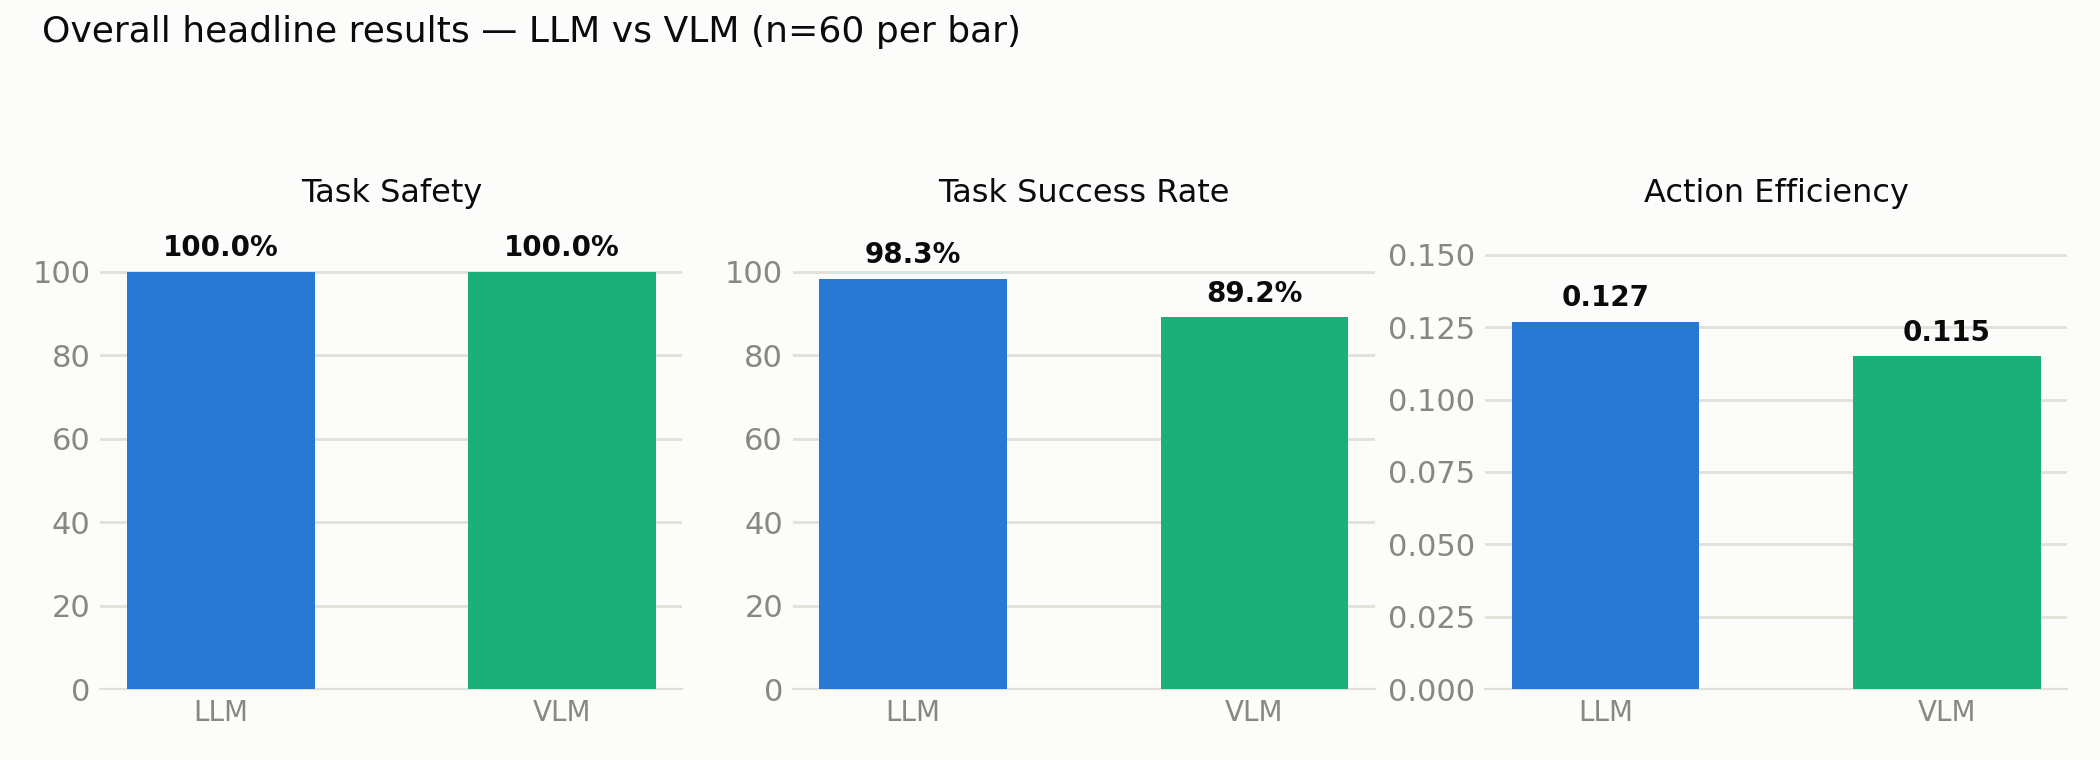
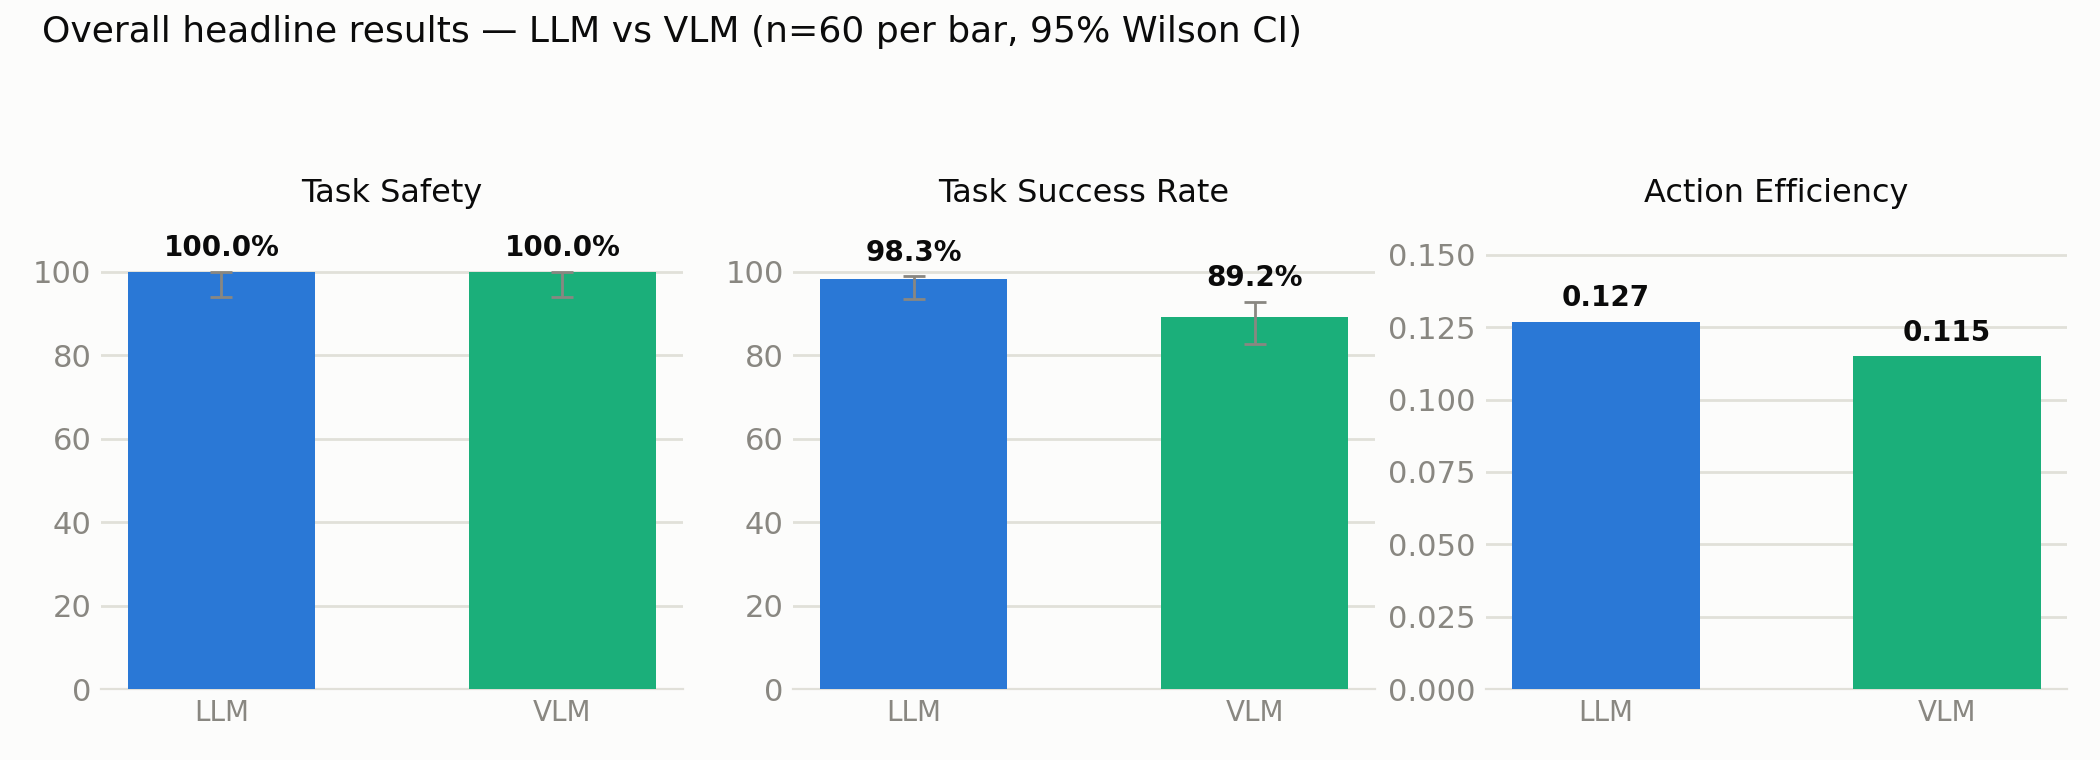
ROBOAI-28 add Wilson CI and planned Fisher test to benchmark plotting
Every reported TS%/TSR% now carries a 95% Wilson score interval
(pooled per cell/overall), and the one hypothesis test declared in
PLAN.md §3 is implemented: two-sided Fisher's exact on arith_hard
full-trial success, LLM vs VLM, alpha=0.05, binarized per trial to
keep the independence assumption honest. Result: p=0.66, not
significant. Figures regenerated with CI whiskers on the TS/TSR
panels (AETS untouched, not a proportion).

diff --git a/benchmark/plot_results.py b/benchmark/plot_results.py
@@ -28,6 +28,7 @@ from statistics import mean, pstdev
 import matplotlib.pyplot as plt
 import matplotlib.ticker as mticker
 from matplotlib.patches import Patch
+from scipy.stats import fisher_exact
 
 REPO_ROOT = Path(__file__).resolve().parent.parent
 RESULTS_CSV = REPO_ROOT / 'benchmark' / 'results_2026-09_3arm.csv'
@@ -156,6 +157,64 @@ def grouped(rows, key_fn):
     return out
 
 
+def wilson_ci(successes, n, z=1.959963984540054):
+    """95% Wilson score interval for a proportion, as (lo, hi) in [0, 1].
+    Chosen over normal-approximation (can leave [0,1] at small n) and over
+    Clopper-Pearson (needlessly conservative here) — see benchmark/PLAN.md
+    §3, decided before this cycle's data was collected.
+    """
+    if n == 0:
+        return (0.0, 0.0)
+    phat = successes / n
+    denom = 1 + z * z / n
+    center = phat + z * z / (2 * n)
+    margin = z * ((phat * (1 - phat) / n + z * z / (4 * n * n)) ** 0.5)
+    return (max(0.0, (center - margin) / denom), min(1.0, (center + margin) / denom))
+
+
+def group_wilson_ci(group, metric):
+    """Pooled Wilson 95% CI for a group of trial rows, TS or TSR (per
+    benchmark/PLAN.md §3 — every reported TS%/TSR% carries one). TS is
+    already a per-trial 0/1 indicator, so successes/n is exact. TSR is a
+    per-trial ratio (sub_tasks_completed/sub_tasks_required); pooling the
+    numerator and denominator across trials reproduces the same point
+    estimate as mean(TSR) and gives a defensible descriptive interval —
+    it treats each sub-task slot as one Bernoulli opportunity, which is a
+    looser assumption than true independence, but this is the descriptive
+    reporting §3 calls for, not the one planned hypothesis test (that one,
+    on arith_hard, is binarized per trial precisely to avoid this same
+    pooling issue where it would matter — see fisher_arith_hard below).
+    """
+    if metric == 'TS':
+        successes = sum(float(r['TS']) for r in group)
+        n = len(group)
+    else:
+        successes = sum(float(r['sub_tasks_completed']) for r in group)
+        n = sum(float(r['sub_tasks_required']) for r in group)
+    return wilson_ci(successes, n)
+
+
+def fisher_arith_hard(rows):
+    """The one planned hypothesis test declared in benchmark/PLAN.md §3:
+    two-sided Fisher's exact test on arith_hard TSR, LLM vs VLM, α=0.05.
+    Binarized per trial (full success, TSR==1.0, vs not) rather than
+    pooling the 4 sub-tasks per trial — pooling would treat sub-tasks
+    within one trial as independent Bernoulli draws, which they aren't (a
+    wrong value-mapping decision tends to misplace all four cubes
+    together, not independently), so trial-level keeps the test's
+    independence assumption honest at the cost of some power (n=10/arm).
+    Returns ((llm_success, llm_fail), (vlm_success, vlm_fail), p_value).
+    """
+    g = grouped(rows, lambda r: (r['model_label'], r['task_id']))
+    table = []
+    for m in ('LLM', 'VLM'):
+        group = g[(m, 'arith_hard')]
+        success = sum(1 for r in group if float(r['TSR']) >= 1.0)
+        table.append([success, len(group) - success])
+    _, p_value = fisher_exact(table, alternative='two-sided')
+    return table[0], table[1], p_value
+
+
 def series_offset(i, n_series, width, gap):
     """Symmetric per-series offset for the i-th of n_series bars sharing
     one category slot, e.g. n_series=2 -> [-0.5, 0.5] * (width+gap),
@@ -194,8 +253,13 @@ def style_axes(ax, ylabel=None):
         ax.set_ylabel(ylabel, fontsize=10)
 
 
-def grouped_bar(ax, categories, cat_labels, series_values, value_fmt='{:.0f}', ymax=None):
-    """series_values: {'LLM': [...], 'VLM': [...]} aligned to `categories`."""
+def grouped_bar(ax, categories, cat_labels, series_values, value_fmt='{:.0f}', ymax=None, ci_series=None):
+    """series_values: {'LLM': [...], 'VLM': [...]} aligned to `categories`.
+    ci_series, optional: same shape as series_values, but each entry is a
+    (lo, hi) tuple in the same units as series_values — drawn as an
+    asymmetric error bar (Wilson 95% CI, see benchmark/PLAN.md §3 and
+    group_wilson_ci above) instead of a bare bar height.
+    """
     n = len(categories)
     width = 0.26
     gap = 0.03
@@ -210,10 +274,22 @@ def grouped_bar(ax, categories, cat_labels, series_values, value_fmt='{:.0f}', y
         offset = series_offset(i, len(MODELS), width, gap)
         xs = [xi + offset for xi in x]
         vals = series_values[model]
-        bars = ax.bar(xs, vals, width=width, color=COLOR[model], label=model, zorder=3)
-        for b, v in zip(bars, vals):
+        bar_kwargs = dict(width=width, color=COLOR[model], label=model, zorder=3)
+        if ci_series:
+            cis = ci_series[model]
+            bar_kwargs['yerr'] = [
+                [max(0.0, v - lo) for v, (lo, hi) in zip(vals, cis)],
+                [max(0.0, hi - v) for v, (lo, hi) in zip(vals, cis)],
+            ]
+            bar_kwargs['capsize'] = 3
+            bar_kwargs['error_kw'] = {'ecolor': INK_MUTED, 'elinewidth': 1}
+        bars = ax.bar(xs, vals, **bar_kwargs)
+        for j, (b, v) in enumerate(zip(bars, vals)):
+            label_y = b.get_height() + top * 0.02
+            if ci_series:
+                label_y = max(label_y, ci_series[model][j][1] + top * 0.02)
             ax.text(
-                b.get_x() + b.get_width() / 2, b.get_height() + top * 0.02,
+                b.get_x() + b.get_width() / 2, label_y,
                 value_fmt.format(v), ha='center', va='bottom', fontsize=8.5, color=INK_SECONDARY,
             )
     ax.set_xticks(list(x))
@@ -239,11 +315,16 @@ def fig_ts_tsr_by_task(rows, task_order=None, filename='ts_tsr_by_task.png', sup
                 for t in task_order]
             for m in MODELS
         }
-        grouped_bar(ax, task_order, [TASK_LABELS[t] for t in task_order], series, '{:.0f}', ymax)
+        ci_series = {
+            m: [tuple(100 * b for b in group_wilson_ci(g[(m, t)], metric)) if g[(m, t)] else (0, 0)
+                for t in task_order]
+            for m in MODELS
+        }
+        grouped_bar(ax, task_order, [TASK_LABELS[t] for t in task_order], series, '{:.0f}', ymax, ci_series)
         style_axes(ax, ylabel='%')
         ax.set_title(title, fontsize=11.5, color=INK, loc='left', pad=10)
     fig.suptitle(
-        suptitle or f'Safety and success rate by task — {" vs ".join(MODELS)} (n=10 per bar)',
+        suptitle or f'Safety and success rate by task — {" vs ".join(MODELS)} (n=10 per bar, 95% Wilson CI)',
         fontsize=13, x=0.02, ha='left',
     )
     fig.tight_layout(rect=(0, 0, 1, 0.88))
@@ -281,10 +362,17 @@ def fig_easy_vs_hard(rows):
             m: [100 * mean(float(r[metric]) for r in g[(m, d)]) for d in diffs]
             for m in MODELS
         }
-        grouped_bar(ax, diffs, ['Easy', 'Hard'], series, '{:.0f}', 110)
+        ci_series = {
+            m: [tuple(100 * b for b in group_wilson_ci(g[(m, d)], metric)) for d in diffs]
+            for m in MODELS
+        }
+        grouped_bar(ax, diffs, ['Easy', 'Hard'], series, '{:.0f}', 110, ci_series)
         style_axes(ax, ylabel='%')
         ax.set_title(title, fontsize=11.5, color=INK, loc='left', pad=10)
-    fig.suptitle('Effect of task complexity — easy vs. hard (n=30 per bar)', fontsize=13, x=0.02, ha='left')
+    fig.suptitle(
+        'Effect of task complexity — easy vs. hard (n=30 per bar, 95% Wilson CI)',
+        fontsize=13, x=0.02, ha='left',
+    )
     fig.tight_layout(rect=(0, 0, 1, 0.88))
     add_model_legend(fig)
     fig.savefig(FIGURES_DIR / 'easy_vs_hard.png', dpi=200)
@@ -429,15 +517,31 @@ def fig_overall_summary(rows, task_filter=None, filename='overall_summary.png', 
                ('AETS', 'Action Efficiency', '', None, '{:.3f}')]
     for ax, (metric, title, unit, ymax, fmt) in zip(axes, metrics):
         vals = []
+        cis = []  # Wilson 95% CI, TS/TSR only — see benchmark/PLAN.md §3
         for m in MODELS:
             xs = [float(r[metric]) for r in rows if r['model_label'] == m]
             v = 100 * mean(xs) if metric != 'AETS' else mean(xs)
             vals.append(v)
+            if metric != 'AETS':
+                group = [r for r in rows if r['model_label'] == m]
+                lo, hi = group_wilson_ci(group, metric)
+                cis.append((100 * lo, 100 * hi))
         top = ymax if ymax else max(vals) * 1.25
-        bars = ax.bar(MODELS, vals, width=0.55, color=[COLOR[m] for m in MODELS], zorder=3)
-        for b, v in zip(bars, vals):
+        bar_kwargs = dict(width=0.55, color=[COLOR[m] for m in MODELS], zorder=3)
+        if cis:
+            bar_kwargs['yerr'] = [
+                [max(0.0, v - lo) for v, (lo, hi) in zip(vals, cis)],
+                [max(0.0, hi - v) for v, (lo, hi) in zip(vals, cis)],
+            ]
+            bar_kwargs['capsize'] = 4
+            bar_kwargs['error_kw'] = {'ecolor': INK_MUTED, 'elinewidth': 1}
+        bars = ax.bar(MODELS, vals, **bar_kwargs)
+        for j, (b, v) in enumerate(zip(bars, vals)):
+            label_y = b.get_height() + top * 0.02
+            if cis:
+                label_y = max(label_y, cis[j][1] + top * 0.02)
             ax.text(
-                b.get_x() + b.get_width() / 2, b.get_height() + top * 0.02,
+                b.get_x() + b.get_width() / 2, label_y,
                 fmt.format(v) + unit, ha='center', va='bottom', fontsize=10, color=INK, fontweight='bold',
             )
         style_axes(ax)
@@ -445,7 +549,7 @@ def fig_overall_summary(rows, task_filter=None, filename='overall_summary.png', 
         ax.set_title(title, fontsize=11.5, color=INK, pad=10)
         ax.tick_params(axis='x', labelsize=10)
     fig.suptitle(
-        suptitle or f'Overall headline results — {" vs ".join(MODELS)} (n={n_per_bar} per bar)',
+        suptitle or f'Overall headline results — {" vs ".join(MODELS)} (n={n_per_bar} per bar, 95% Wilson CI)',
         fontsize=13, x=0.02, ha='left',
     )
     fig.tight_layout(rect=(0, 0, 1, 0.90))
@@ -506,9 +610,19 @@ def fig_failure_modes(rows):
     plt.close(fig)
 
 
+def _ci_str(lo, hi):
+    return f'[{100 * lo:4.1f}-{100 * hi:4.1f}]'
+
+
 def print_tables(rows):
+    # Every TS%/TSR% below carries its 95% Wilson CI, and the CSV's own
+    # data drives the one planned hypothesis test — both per
+    # benchmark/PLAN.md §3, decided before this cycle's data was seen.
     g = grouped(rows, lambda r: (r['model_label'], r['task_id']))
-    print(f"{'Model':<5} {'Task':<10} {'N':>3} {'TS%':>6} {'TSR%':>6} {'AETS':>7} {'steps':>7} {'plan_s':>7}")
+    print(
+        f"{'Model':<5} {'Task':<10} {'N':>3} {'TS%':>6} {'95% CI':>13} "
+        f"{'TSR%':>6} {'95% CI':>13} {'AETS':>7} {'steps':>7} {'plan_s':>7}"
+    )
     for m in MODELS:
         for t in TASK_ORDER:
             grp = g[(m, t)]
@@ -517,19 +631,39 @@ def print_tables(rows):
                 continue
             ts = 100 * mean(float(r['TS']) for r in grp)
             tsr = 100 * mean(float(r['TSR']) for r in grp)
+            ts_ci = _ci_str(*group_wilson_ci(grp, 'TS'))
+            tsr_ci = _ci_str(*group_wilson_ci(grp, 'TSR'))
             aets = mean(float(r['AETS']) for r in grp)
             steps = mean(int(r['steps_executed']) for r in grp)
             durations = [float(r['planning_duration_s']) for r in grp if r.get('planning_duration_s')]
             plan_s = f'{mean(durations):>7.1f}' if durations else f'{"n/a":>7}'
-            print(f'{m:<5} {t:<10} {n:>3} {ts:>5.1f}% {tsr:>5.1f}% {aets:>7.4f} {steps:>7.2f} {plan_s}')
+            print(
+                f'{m:<5} {t:<10} {n:>3} {ts:>5.1f}% {ts_ci:>13} {tsr:>5.1f}% {tsr_ci:>13} '
+                f'{aets:>7.4f} {steps:>7.2f} {plan_s}'
+            )
     print()
     for m in MODELS:
         xs = [r for r in rows if r['model_label'] == m]
         n = len(xs)
         ts = 100 * mean(float(r['TS']) for r in xs)
         tsr = 100 * mean(float(r['TSR']) for r in xs)
+        ts_ci = _ci_str(*group_wilson_ci(xs, 'TS'))
+        tsr_ci = _ci_str(*group_wilson_ci(xs, 'TSR'))
         aets = mean(float(r['AETS']) for r in xs)
-        print(f'{m} overall: N={n} TS%={ts:.1f} TSR%={tsr:.1f} AETS={aets:.4f}')
+        print(f'{m} overall: N={n} TS%={ts:.1f}{ts_ci} TSR%={tsr:.1f}{tsr_ci} AETS={aets:.4f}')
+
+    print('\nPlanned hypothesis test (benchmark/PLAN.md §3): two-sided Fisher\'s')
+    print('exact test, arith_hard full-trial success (TSR==1.0) rate, LLM vs VLM, α=0.05.')
+    if ('LLM', 'arith_hard') in g and ('VLM', 'arith_hard') in g:
+        (llm_ok, llm_fail), (vlm_ok, vlm_fail), p = fisher_arith_hard(rows)
+        verdict = 'significant' if p < 0.05 else 'not significant'
+        print(
+            f'  LLM: {llm_ok}/{llm_ok + llm_fail} full success   '
+            f'VLM: {vlm_ok}/{vlm_ok + vlm_fail} full success   '
+            f'p={p:.4f} ({verdict} at α=0.05)'
+        )
+    else:
+        print('  skipped: arith_hard data missing for LLM and/or VLM')
 
 
 def main():
